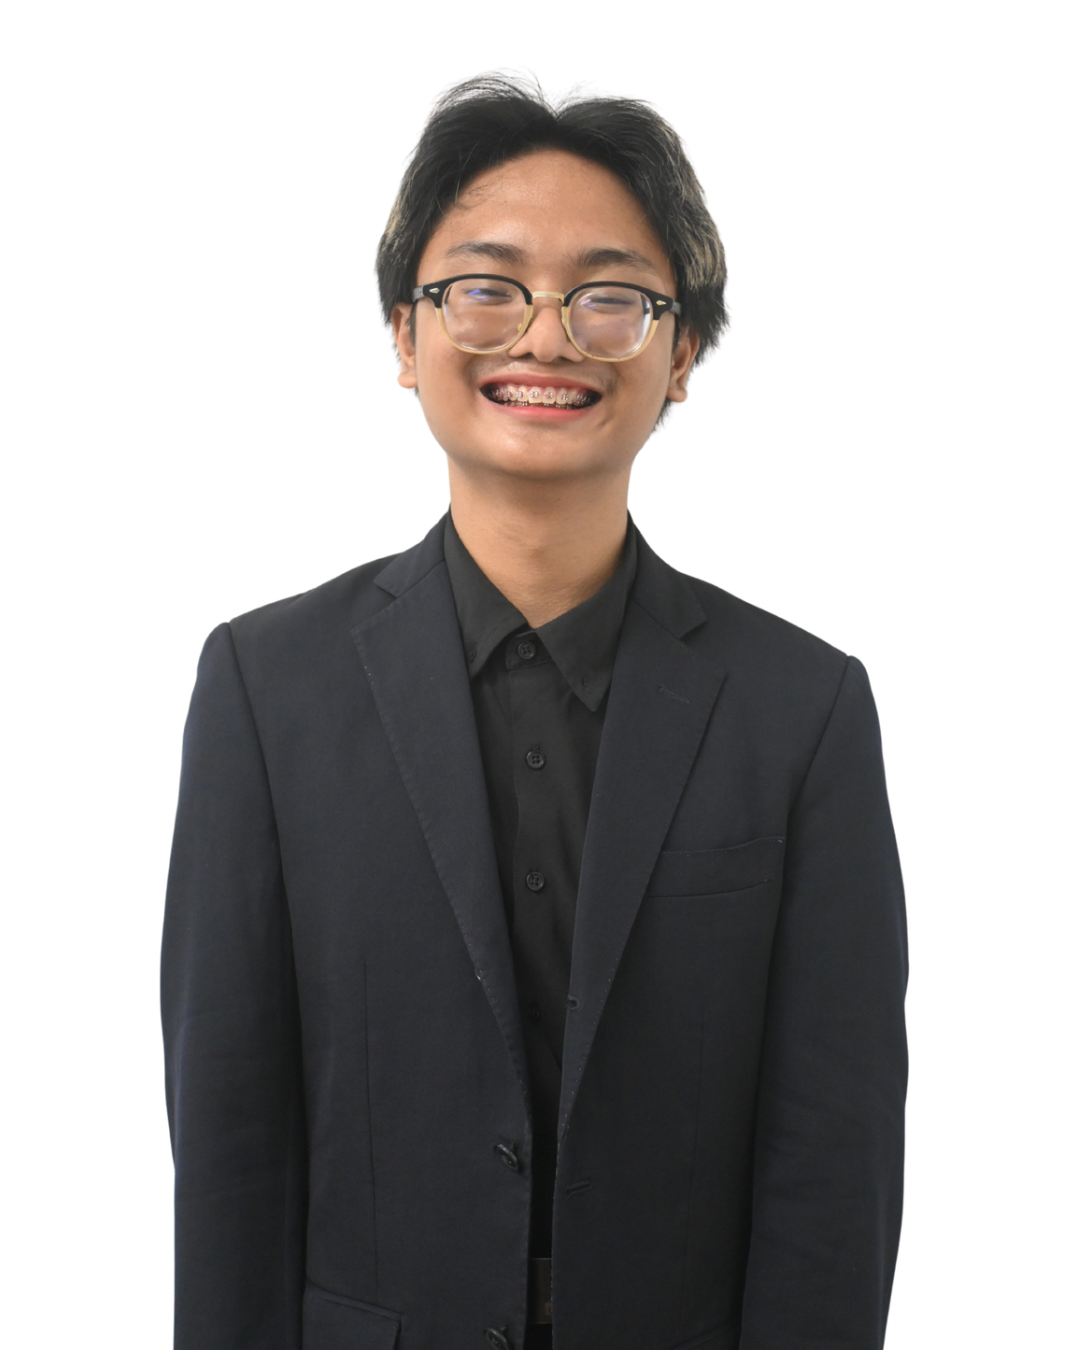
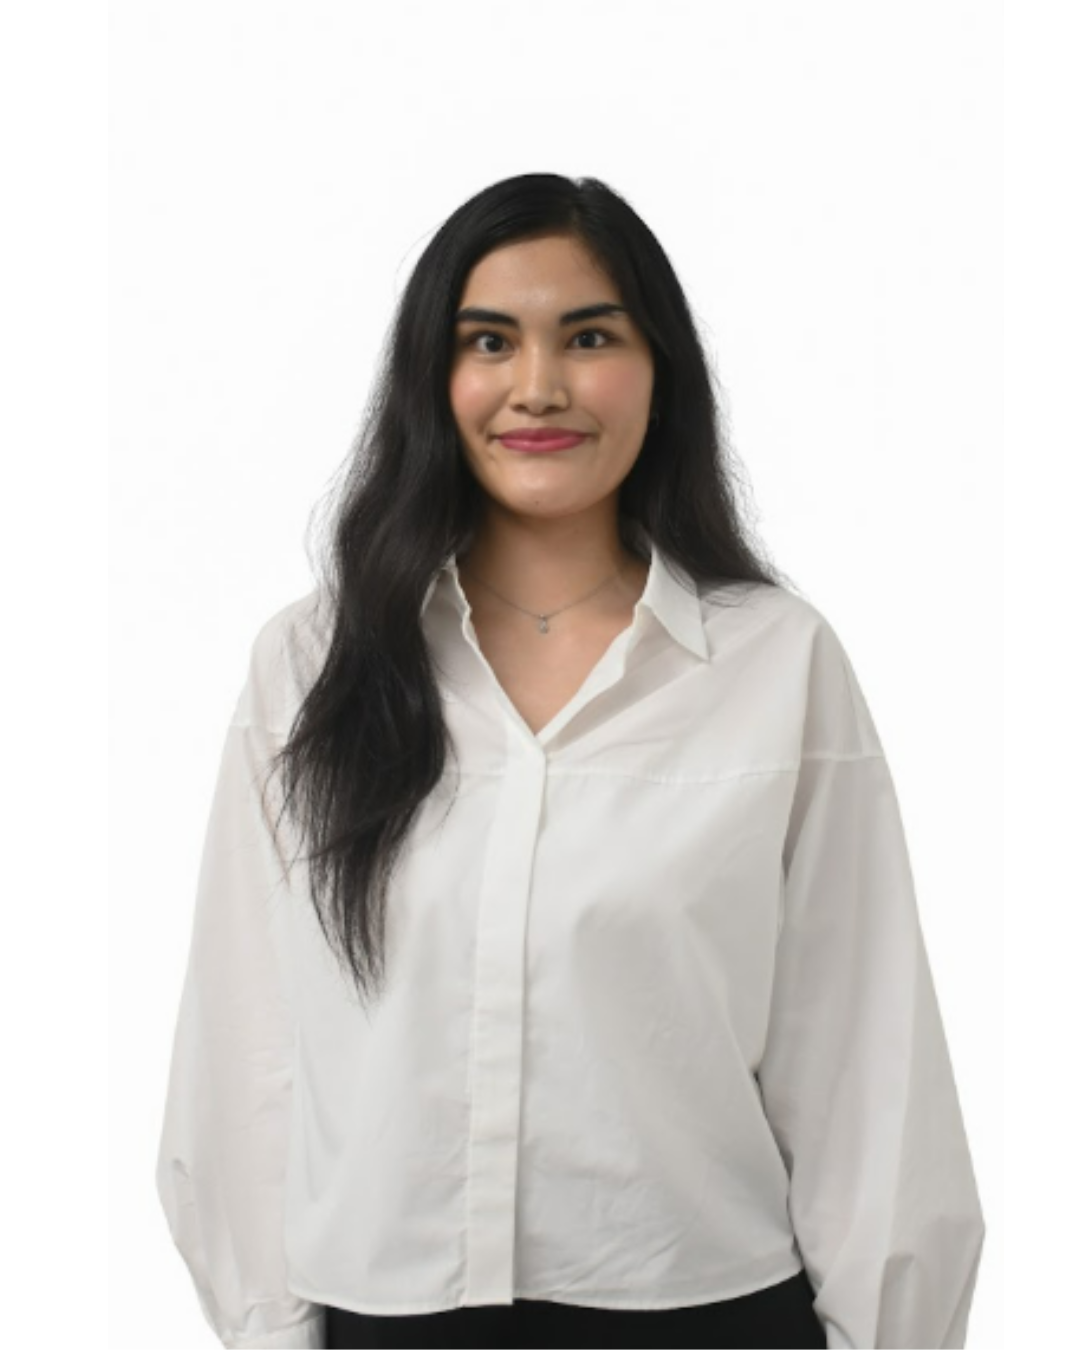
JUD readded

diff --git a/unit.js b/unit.js
@@ -1108,6 +1108,121 @@ committees: [
       ]
     }
   },
+  "JUD": {
+    category: "Independent Bodies",
+    description: "The USG Judiciary is the land of justice that carries the rights of the students by upholding the law so it will never be forgotten. The Judiciary is composed of different committees that each have a different purpose and write their own story. From providing student services to establishing alliances, the members of the Judiciary put their integrity and duty first in order to protect the justice of the student body.",
+    logo: "assets/JUDICIARY_Black Logo.png",
+    applicationLink: "https://animo.li/SGAR2627T1_JD_ApplicationForm",
+    primerLink: "https://drive.google.com/file/d/101M5amdg7bhlXld4btiNHJDGa9SHp-dQ/view?usp=sharing",
+    socialLink: "https://www.facebook.com/usgjudiciary",
+    executiveBoard: [
+      {
+        name: "Maika Waden S. Marcelino",
+        role: "Acting Chief Magistrate",
+        email: "maika_marcelino@dlsu.edu.ph",
+        telegram: "@calirollmai",
+        photo: "assets/JUDICIARY_Acting Chief Magistrate.png"
+      },
+      {
+        name: "Ricardo Jose M. Lagman",
+        role: "Director of Human Resources",
+        email: "ricardo_lagman@dlsu.edu.ph",
+        telegram: "@ricardiology",
+        photo: "assets/JUDICIARY_Director of Human Resources.png"
+      },
+      {
+        name: "Avery Shyanne O. Cruz",
+        role: "Deputy Director of Human Resources",
+        email: "avery_cruz@dlsu.edu.ph",
+        telegram: "@averyshyannne",
+        photo: "assets/JUDICIARY_Deputy Director of Human Resources.png"
+      }
+    ],
+    committees: [
+      {
+        name: "Magistrate Trainee",
+        positions: "3 trainees",
+        description: "Magistrate Trainees are chosen to practice maintaining the law through a dedicated and disciplined training program. Those who stand in the arena are those who are willing to face any kind of trial. By the end of the program, trainees are prepared to carry the weight of justice for the student body."
+      },
+      {
+        name: "Counsel Officer Trainee",
+        positions: "5 trainees",
+        description: "Counsel Officer Trainees are being trained to have a heart of selflessness to protect the students. Trainees use their courage and unwavering devotion to become the defenders and voices of the student body."
+      },
+      {
+        name: "Office of the Magistrate",
+        positions: "3 staffers",
+        description: "The Office of the Magistrate holds the quiet and reliable heroes of the organization by ensuring all records run smoothly. The staffers are dedicated to managing the records with confidentiality and precision to make sure the Judiciary keeps on functioning."
+      },
+      {
+        name: "Student Advisers",
+        positions: "7 apprentices",
+        description: "The Student Advisers are the fearless heroes of the Judiciary by protecting the truth and offering services to the student body. They bring light to the students by handling grievances and defending student rights during uncertain times."
+      },
+      {
+        name: "Operations",
+        positions: "5 apprentices",
+        description: "The Operations Committee is another candle of the Judiciary by turning all event ideas into reality. By checking, organizing and submitting needed documents in careful alignment, it allows projects to slowly unfold and bloom."
+      },
+      {
+        name: "Judicial Communications",
+        positions: "6 Apprentices",
+        description: "Judicial Communications are the storytellers of the Judiciary’s life. Through their creative skills and use of various tools, they create vibrant visuals and transparency for the student body. The committee is composed of the following sub-groups:\n• 2 Press & Information Apprentices\n• 2 Integrated Marketing Apprentices\n• 2 Digital & Technological Support Apprentices",
+        requirements: "Portfolio required."
+      },
+      {
+        name: "Human Resources",
+        positions: "5 apprentices",
+        description: "Human Resources is the bright candle of the Judiciary, bringing life and balance to the organization. By preparing meaningful events, it becomes a colorful memory for members of the Judiciary."
+      },
+      {
+        name: "Judicial Administration",
+        positions: "4 apprentices",
+        description: "Judicial Administration are the guardians of the organization as they take care of court records and documentations. They help maintain integrity and the memories of the organization so the Judiciary can remain standing in the arena."
+      },
+      {
+        name: "External Relations",
+        positions: "4 apprentices",
+        description: "External Relations is the bridge between the organization and partners within or beyond the university. They establish bonds that help create opportunities for the Judiciary and make greater memories with more alliances."
+      },
+      {
+        name: "Fiscal",
+        positions: "4 apprentices",
+        description: "The Fiscal Committee helps light up the Judiciary’s candle by overseeing the financial operations of the Judiciary to ensure stability and compliance. Through accountability, transparent records, and proper budget management, the committee ensures that all projects are financially supported."
+      }
+    ],
+    orgStructureImage: "assets/JUDICIARY_OrgChart.png",
+    timeline: {
+      title: "TIMELINE SCHEDULE",
+      phases: [
+        {
+          title: "Applications",
+          date: "OCT 5–19",
+          tag: "OPENING ACT",
+          color: "blue",
+          start: "2026-10-05T00:00:00+08:00",
+          end: "2026-10-19T23:59:59+08:00",
+          openDateLabel: "OCTOBER 5, 2026",
+          closeDateLabel: "OCTOBER 19, 2026"
+        },
+        {
+          title: "Interviews",
+          date: "OCT 9–21",
+          tag: "INTERVIEWS",
+          color: "yellow",
+          start: "2026-10-09T00:00:00+08:00",
+          end: "2026-10-21T23:59:59+08:00"
+        },
+        {
+          title: "Results",
+          date: "OCT 28",
+          tag: "PREMIERE",
+          color: "neutral"
+        }
+      ]
+    }
+
+  },
   "CSG": {
     name: "Computer Studies Government",
     category: "College Units",
@@ -1666,15 +1781,15 @@ name: "Arts College Government",
     applicationLink: "https://bit.ly/SGAR2627T1_ACG_ApplicationForms",
     primerLink: "https://drive.google.com/file/d/1eVxupt2e6sKy0HUADR3K695nJyMwZHJA/view?usp=sharing",
     socialLink: "https://www.facebook.com/dlsuacg",
-    /*
+    
     executiveBoard: [
-     // {
-        //name: "Louise Castillo",
-        //role: "OIC College President",
-        //email: "louise_angela_castillo@dlsu.edu.ph",
-        //telegram: "@louisecastilloo",
-        //photo: "assets/ACG CP.jpg"
-      //},
+     {
+        name: "Louise Castillo",
+        role: "OIC College President",
+        email: "louise_angela_castillo@dlsu.edu.ph",
+        telegram: "@louisecastilloo",
+        photo: "assets/ACG CP.jpg"
+      },
       {
         name: "Yesha Gutierrez",
         role: "Chief of Staff",
@@ -1704,7 +1819,6 @@ name: "Arts College Government",
         photo: "assets/ACG CFAO.jpeg"
       }
     ],
-    */
     committees: [
       {
         name: "Student Services",
